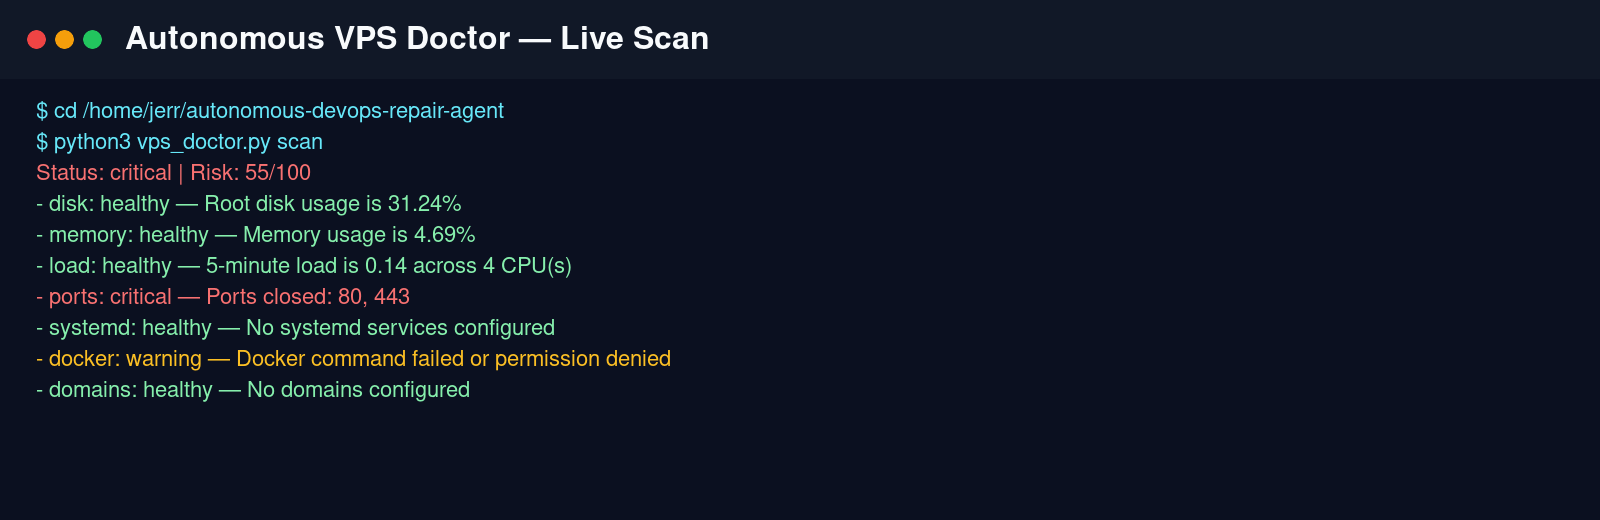
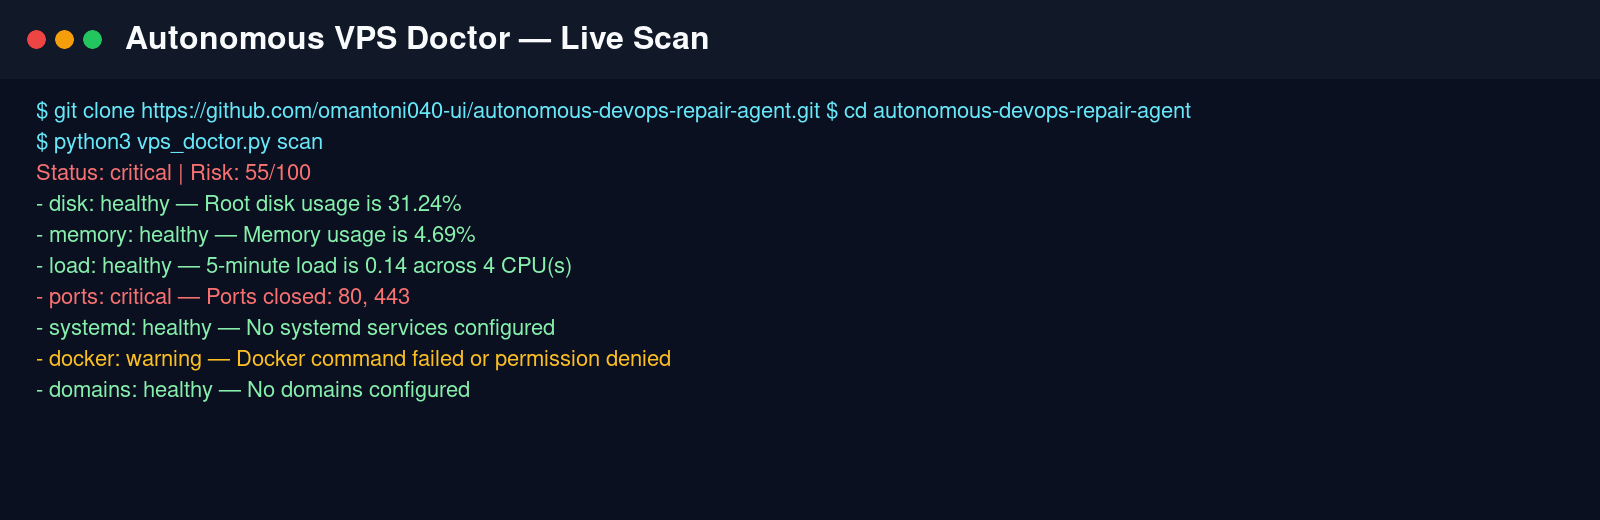
docs: make public setup instructions portable

Changed region(s): [[0.0312, 0.1846, 0.75, 0.2462]]

diff --git a/demo/index.html b/demo/index.html
@@ -82,7 +82,8 @@
   </div>
 
   <h2>Run locally</h2>
-  <pre>cd /home/jerr/autonomous-devops-repair-agent
+  <pre>git clone https://github.com/omantoni040-ui/autonomous-devops-repair-agent.git
+cd autonomous-devops-repair-agent
 python3 vps_doctor.py scan
 python3 vps_doctor.py report
 python3 vps_doctor.py notify-telegram --dry-run</pre>

diff --git a/vps_doctor.py b/vps_doctor.py
@@ -448,6 +448,17 @@ def save_report(report: ScanReport, output_dir: Path) -> tuple[Path, Path]:
     return json_path, md_path
 
 
+def display_path(path: Path) -> str:
+    """Return public-friendly paths instead of machine-specific absolute paths."""
+    try:
+        return str(path.resolve().relative_to(Path.cwd().resolve()))
+    except ValueError:
+        try:
+            return str(path.resolve().relative_to(PROJECT_ROOT))
+        except ValueError:
+            return str(path)
+
+
 def print_summary(report: ScanReport) -> None:
     print(f"Status: {report.overall_status()} | Risk: {report.risk_score()}/100")
     for check in report.checks:
@@ -543,13 +554,13 @@ def main() -> int:
         report = run_scan(args.config)
         json_path, md_path = save_report(report, args.output_dir)
         print_summary(report)
-        print(f"Saved JSON: {json_path}")
-        print(f"Saved Markdown: {md_path}")
+        print(f"Saved JSON: {display_path(json_path)}")
+        print(f"Saved Markdown: {display_path(md_path)}")
         return 0 if report.overall_status() != "critical" else 1
 
     if args.command == "demo-incident":
         path = build_demo_incident(DEFAULT_INCIDENT_DIR)
-        print(f"Created demo incident: {path}")
+        print(f"Created demo incident: {display_path(path)}")
         return 0
 
     if args.command == "notify-telegram":

diff --git a/README.md b/README.md
@@ -22,7 +22,8 @@ It is **safe by default**: it does not delete files, restart production services
 ## Quick Start
 
 ```bash
-cd /home/jerr/autonomous-devops-repair-agent
+git clone https://github.com/omantoni040-ui/autonomous-devops-repair-agent.git
+cd autonomous-devops-repair-agent
 python3 vps_doctor.py --help
 python3 vps_doctor.py scan
 python3 vps_doctor.py report

diff --git a/PROOF.md b/PROOF.md
@@ -3,7 +3,8 @@
 Use this sequence to create screenshots for the Max Monthly Plan submission.
 
 ```bash
-cd /home/jerr/autonomous-devops-repair-agent
+git clone https://github.com/omantoni040-ui/autonomous-devops-repair-agent.git
+cd autonomous-devops-repair-agent
 python3 vps_doctor.py --help
 python3 vps_doctor.py scan
 python3 vps_doctor.py report
